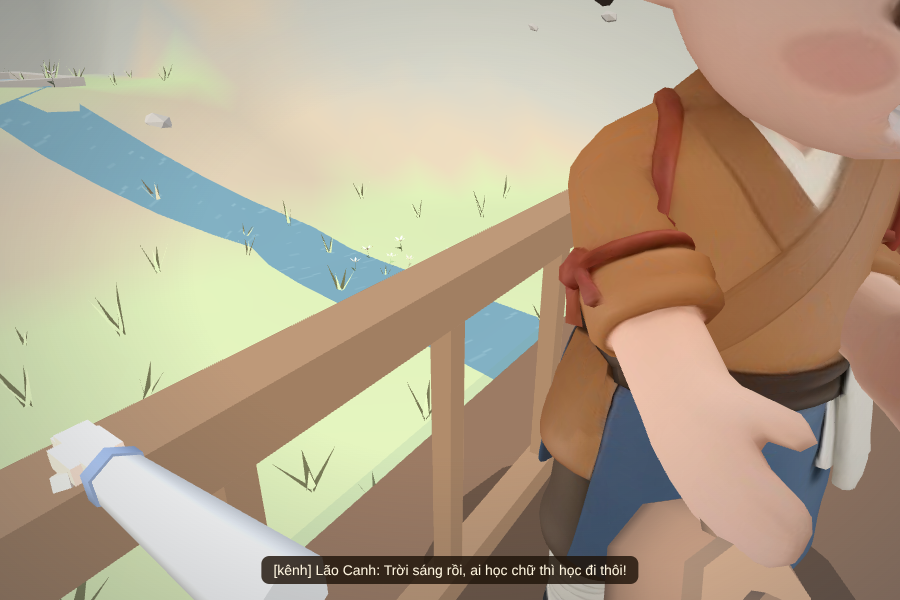
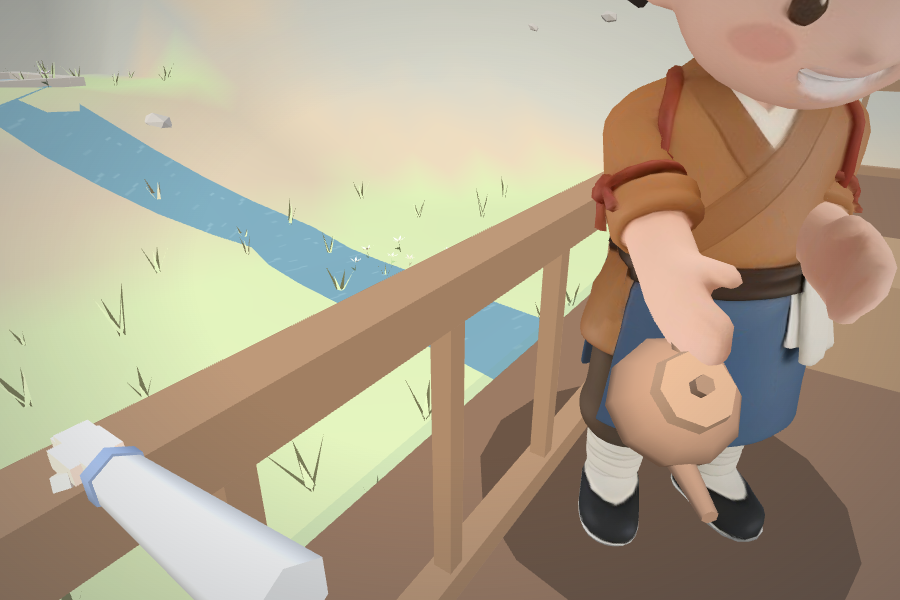
V-20261116-105 NV12: chỗ đứng rót — ghế lan can tính từ mắt, phải < 1,4 m mà trái xa hơn thì đứng trái (R-TRA-1)
Claude-Session: https://claude.ai/code/session_01HXxn4MYC5mAotpjcJM1gun

diff --git a/web/src/traLauPhucVu.test.ts b/web/src/traLauPhucVu.test.ts
@@ -3,6 +3,7 @@ import { describe, expect, it, vi } from 'vitest';
 import { Colliders } from './collision/colliders';
 import { LayeredGround } from './collision/ground';
 import type { XZ } from './collision/gridPath';
+import { RAIL_REACH } from './scene/kien_truc/do_pho';
 import { MIN_FALLBACK, STAND_CLEAR } from './scene/kien_truc/tra_lau_phuc_vu';
 import { traLau, traLauLayout } from './scene/kien_truc/tra_lau';
 import { clearanceAt } from './scene/routeCheck';
@@ -47,6 +48,35 @@ function standFree(f: TeaFloor, seats: readonly { x: number; z: number }[], me: 
 
 const inside = (f: TeaFloor, x: number, z: number): boolean => x >= f.bounds.minX && x <= f.bounds.maxX && z >= f.bounds.minZ && z <= f.bounds.maxZ;
 
+type SeatXZ = { x: number; z: number; rotY: number; hold?: string; rail?: { d: number; h: number } };
+/** gốc đo: chỗ ngồi — ghế lan can: mắt người ngồi nhoài tới lan can (`ngoiMat.ts`: trước chỗ ngồi max(eyeFwd, rail.d − RAIL_REACH)) */
+function origin(s: SeatXZ): { x: number; z: number; rotY: number } {
+  const k = s.hold === 'lan-can' && s.rail ? Math.max(DEFAULT_SCENE.camera.firstPerson.eyeFwd, s.rail.d - RAIL_REACH) : 0;
+  return { x: s.x + Math.sin(s.rotY) * k, z: s.z + Math.cos(s.rotY) * k, rotY: s.rotY };
+}
+/** góc (độ) của điểm `p` nhìn từ `o` so với hướng nhìn của chỗ ngồi `s` — dương = phải */
+function angleFrom(s: SeatXZ, o: { x: number; z: number }, p: XZ): number {
+  const vx = p[0] - o.x;
+  const vz = p[1] - o.z;
+  return Math.atan2(-Math.cos(s.rotY) * vx + Math.sin(s.rotY) * vz, Math.sin(s.rotY) * vx + Math.cos(s.rotY) * vz) * DEG;
+}
+/** dải góc ứng viên (độ, so hướng nhìn): bàn 35–85°, ghế lan can (từ mắt) 60–82° */
+const TABLE_BAND = [35, 85] as const;
+const RAIL_BAND = [60, 82] as const;
+/** phía `side` (1 phải, −1 trái) có điểm đứng được xa hơn `d` (từ d + 0,02 tới 1,6 m mỗi 0,01; góc trong dải mỗi 5° + mép dải)? */
+function farther(f: TeaFloor, seats: readonly SeatXZ[], s: SeatXZ, side: number, band: readonly [number, number], d: number): boolean {
+  const o = origin(s);
+  const as: number[] = [];
+  for (let a = band[0]; a < band[1]; a += 5) as.push(a);
+  as.push(band[1]);
+  for (const a of as)
+    for (let dd = d + 0.02; dd <= 1.6 + 1e-9; dd += 0.01) {
+      const [x, z] = at(o, side * a, dd);
+      if (standFree(f, seats, s, x, z)) return true;
+    }
+  return false;
+}
+
 describe('Mốc phục vụ trà lâu (R-TRA-1)', () => {
   it('R-TRA-1: cả 30 chỗ ngồi đều có chỗ đứng rót, chỗ ngồi gắn mã nhà để tiểu nhị mang tới', () => {
     const { svc, seats } = setup();
@@ -56,7 +86,7 @@ describe('Mốc phục vụ trà lâu (R-TRA-1)', () => {
     expect(svc.seats.filter((s) => s!.floor === 1)).toHaveLength(12);
   });
 
-  it('R-TRA-1: chỗ đứng rót cách chỗ ngồi 1,4–1,6 m (chỗ chật: xa nhất có thể), cùng tầng, ngoài vật cản mịn, phía trước – phải (ghế lan can: bên phải)', () => {
+  it('R-TRA-1: chỗ đứng rót cách chỗ ngồi 1,4–1,6 m (chỗ chật: xa nhất có thể), cùng tầng, ngoài vật cản mịn, phía trước – phải; phải < 1,4 m mà trái xa hơn → trước – trái', () => {
     const { svc, seats } = setup();
     const angles: string[] = [];
     const dists: string[] = [];
@@ -64,43 +94,69 @@ describe('Mốc phục vụ trà lâu (R-TRA-1)', () => {
       const t = svc.seats[i]!;
       const f = svc.floors[t.floor - 1];
       expect(Math.abs(f.y - (s.y < yf - 1 ? plat : yf)) < 1e-9).toBe(true);
-      const d = Math.hypot(t.stand[0] - s.x, t.stand[1] - s.z);
+      const rail = s.hold === 'lan-can';
+      const o = origin(s); // ghế lan can: tính từ mắt
+      const d = Math.hypot(t.stand[0] - o.x, t.stand[1] - o.z);
       expect(d, `chỗ ${i}`).toBeGreaterThanOrEqual(MIN_FALLBACK - 1e-5);
       expect(d, `chỗ ${i}`).toBeLessThanOrEqual(1.6 + 1e-5);
       expect(standFree(f, seats, s, ...t.stand), `chỗ ${i}`).toBe(true);
       dists.push(`${i}:${d.toFixed(2)}`);
+      const band = rail ? RAIL_BAND : TABLE_BAND;
+      const side = Math.sign(t.angle);
       if (d < 1.4 - 1e-5) {
-        // chỗ chật — xa nhất có thể: quét cùng phía, mọi góc trong dải ứng viên (5° một), khoảng từ d + 0,02 tới 1,6 (0,01 m một)
-        // → không có điểm nào hợp lệ (trong sàn, cách bàn ghế ≥ STAND_CLEAR, không đè chỗ ngồi khác)
-        const side = Math.sign(t.angle);
-        const band = s.hold === 'lan-can' ? [40, 70] : [35, 85];
-        for (let a = band[0]; a <= band[1]; a += 5)
-          for (let dd = d + 0.02; dd <= 1.6 + 1e-9; dd += 0.01) {
-            const [x, z] = at(s, side * a, dd);
-            expect(standFree(f, seats, s, x, z), `chỗ ${i} (d ${d.toFixed(2)}): ${side * a}° · ${dd.toFixed(2)} m vẫn đứng được`).toBe(false);
-          }
+        // chỗ chật — xa nhất có thể cùng phía; phía kia (nếu là phải) cũng không xa hơn
+        expect(farther(f, seats, s, side, band, d), `chỗ ${i} (d ${d.toFixed(2)}) phía ${side}`).toBe(false);
+        expect(farther(f, seats, s, -side, band, d), `chỗ ${i} (d ${d.toFixed(2)}): phía ${-side} xa hơn`).toBe(false);
       }
-      // góc thật trong cảnh so với hướng nhìn: dương = bên phải người ngồi
-      const fx = Math.sin(s.rotY);
-      const fz = Math.cos(s.rotY);
+      // đứng trái → phía phải không đạt 1,4 m và không xa bằng chỗ đứng trái
+      if (side < 0) expect(farther(f, seats, s, 1, band, Math.min(d, 1.4) - 0.02), `chỗ ${i}: phía phải đứng được`).toBe(false);
+      // góc thật trong cảnh so với hướng nhìn từ chỗ ngồi: dương = bên phải người ngồi
+      expect(angleFrom(s, s, t.stand)).toBeCloseTo(t.angle, 2);
+      const ang = angleFrom(s, o, t.stand);
+      angles.push(`${i}:${Math.round(ang)}°`);
+      expect(Math.abs(ang), `chỗ ${i}`).toBeLessThan(90); // phía trước (ghế lan can: trước mắt)
+      // quay mặt về chỗ ngồi
       const vx = t.stand[0] - s.x;
       const vz = t.stand[1] - s.z;
-      const right = -Math.cos(s.rotY) * vx + Math.sin(s.rotY) * vz;
-      const ang = Math.atan2(right, fx * vx + fz * vz) * DEG;
-      expect(ang).toBeCloseTo(t.angle, 2);
-      if (s.hold === 'lan-can') expect(ang >= 40 && ang <= 70, `ghế lan can ${i}: ${ang}°`).toBe(true); // nhoài tới lan can → từ mắt là bên phải
-      angles.push(`${i}:${Math.round(ang)}°`);
-      // quay mặt về chỗ ngồi
       expect(Math.abs(Math.atan2(Math.sin(t.face - Math.atan2(-vx, -vz)), Math.cos(t.face - Math.atan2(-vx, -vz))))).toBeLessThan(1e-6);
     });
-    // phía trước (|góc| < 90°, trừ lan can), bên phải trừ chỗ bị chắn (sập: nửa quay lưng ra tường sau)
-    const left = seats.filter((_, i) => svc.seats[i]!.angle < 0);
-    for (const s of seats.filter((q) => q.hold !== 'lan-can')) expect(Math.abs(svc.seats[seats.indexOf(s)]!.angle)).toBeLessThan(90);
-    expect(left.length, angles.join(' ')).toBeLessThanOrEqual(2);
-    // phần lớn chỗ đạt đủ 1,4–1,6 m
-    expect(dists.filter((q) => Number(q.split(':')[1]) >= 1.4 - 1e-5).length, dists.join(' ')).toBeGreaterThanOrEqual(20);
-    console.log(`R-TRA-1 góc chỗ đứng rót: ${angles.join(' ')}`);
-    console.log(`R-TRA-1 khoảng chỗ đứng rót (m): ${dists.join(' ')}`);
+    // trái chỉ ở chỗ phía phải không đủ: 2 chỗ sập quay lưng ra tường + 2 chỗ đầu bàn dài mà bên phải là ghế cạnh
+    const left = seats.flatMap((_, i) => (svc.seats[i]!.angle < 0 ? [i] : []));
+    expect(left, angles.join(' ')).toEqual([13, 15, 21, 24]);
+    // chỉ 2 chỗ giữa bàn dài (ghế cạnh cả hai bên) chưa đủ 1,4 m
+    expect(dists.filter((q) => Number(q.split(':')[1]) >= 1.4 - 1e-5).length, dists.join(' ')).toBeGreaterThanOrEqual(28);
+    console.log(`R-TRA-1 góc chỗ đứng rót (lan can: từ mắt): ${angles.join(' ')}`);
+    console.log(`R-TRA-1 khoảng chỗ đứng rót (m, lan can: từ mắt): ${dists.join(' ')}`);
+  });
+
+  it('R-TRA-1: ghế lan can — cách mắt 1,4–1,6 m, lùi trong sàn chếch phải; quay đầu sang phải ≤ 60° thì cả bề ngang thân tiểu nhị lọt khung, thấy cả chân', () => {
+    const { svc, seats } = setup();
+    const fp = DEFAULT_SCENE.camera.firstPerson;
+    const vHalf = DEFAULT_SCENE.camera.fov / 2 / DEG; // khung 900 × 600: FOV dọc 55°
+    const hHalf = Math.atan(Math.tan(vHalf) * (900 / 600));
+    const rails = seats.filter((s) => s.hold === 'lan-can');
+    expect(rails).toHaveLength(4);
+    for (const s of rails) {
+      const i = seats.indexOf(s);
+      const t = svc.seats[i]!;
+      const o = origin(s);
+      const d = Math.hypot(t.stand[0] - o.x, t.stand[1] - o.z);
+      expect(d, `chỗ ${i}`).toBeGreaterThanOrEqual(1.4 - 1e-5);
+      expect(d, `chỗ ${i}`).toBeLessThanOrEqual(1.6 + 1e-5);
+      // lùi vào trong sàn: không ra trước lan can, gần chỗ ngồi theo hướng nhìn hơn lan can
+      const fwd = (t.stand[0] - s.x) * Math.sin(s.rotY) + (t.stand[1] - s.z) * Math.cos(s.rotY);
+      expect(fwd, `chỗ ${i}`).toBeLessThan(s.rail!.d - STAND_CLEAR + 1e-6);
+      const ang = angleFrom(s, o, t.stand) / DEG; // rad, dương = phải
+      expect(ang, `chỗ ${i}`).toBeGreaterThan(0);
+      // quay đầu tối đa yawLimit sang phải: cả bề ngang thân (±0,45 m — cả tay) trong khung
+      const yaw = Math.min(fp.yawLimit / DEG, ang);
+      const half = Math.atan(0.45 / d);
+      expect(ang + half, `chỗ ${i}: mép thân ${((ang + half) * DEG).toFixed(0)}° > ${((yaw + hHalf) * DEG).toFixed(0)}°`).toBeLessThanOrEqual(yaw + hHalf);
+      expect(ang - half).toBeGreaterThanOrEqual(yaw - hHalf);
+      // chân trong khung khi nhìn cúi như chỗ ngồi (pitch.seat)
+      const feet = Math.atan(fp.eyeY / d);
+      expect(feet, `chỗ ${i}`).toBeLessThanOrEqual(-fp.pitch.seat / DEG + vHalf);
+    }
   });
 
   it('R-TRA-1: cửa, mốc thang nằm trên nền đi được; cửa ở gian phía hồi phải (nam), đầu cầu nối trên sàn tầng 2', () => {

diff --git a/web/src/scene/kien_truc/tra_lau_phuc_vu.ts b/web/src/scene/kien_truc/tra_lau_phuc_vu.ts
@@ -2,11 +2,12 @@
  * Mốc phục vụ của trà lâu cho tiểu nhị mang trà (R-TRA-1), toạ độ nhà (mặt trước nhìn +z) — chỉ là số xuất ra, không dựng
  * hình. `tra_lau.ts` gom "vật cản mịn" (mặt bàn + đôn tròn thay hộp bao, sập, bàn nhỏ, cột, quầy, tường) từng tầng lúc dựng,
  * rồi gọi `teaServiceLocal`: đoạn cố định sau quầy, cửa, mốc thang, và mỗi chỗ ngồi một **chỗ đứng rót** (QĐ3 2026-11-16:
- * chếch trước – phải, cách 1,4–1,6 m — chỗ chật: xa nhất có thể; ghế lan can: bên phải). `scene/teaPath.ts` đổi sang toạ độ cảnh + dựng đường.
+ * chếch trước – phải, cách 1,4–1,6 m — chỗ chật: xa nhất có thể; phải < 1,4 m mà trái xa hơn → trước – trái; ghế lan can: tính từ
+ * mắt, bên phải). `scene/teaPath.ts` đổi sang toạ độ cảnh + dựng đường.
  */
 import type { Box, Circle } from '../../collision/colliders';
 import { clearanceAt } from '../routeCheck';
-import type { LocalSeat } from './do_pho';
+import { RAIL_REACH, type LocalSeat } from './do_pho';
 
 export type XZ = readonly [number, number];
 
@@ -46,18 +47,20 @@ export const STAND_CLEAR = 0.2;
 /** Chỗ đứng rót không đè lên chỗ ngồi khác (tâm cách tâm, m). */
 const OTHER_SEAT = 0.5;
 const DEG = Math.PI / 180;
-/**
- * Góc thử (độ, so hướng nhìn, dương = phải): gần 45° trước (QĐ3). Bàn bày chật → lấy góc gần nhất còn trống. Ghế lan can: người
- * ngồi nhìn từ mắt **nhoài người** ~0,8 m tới lan can (`ngoiMat` RAIL_REACH) → đứng chếch trước 45–60° so với chỗ ngồi thì từ
- * mắt là ngay bên phải (~75–90°), quay đầu sang thấy; đứng đúng 90° so với chỗ ngồi thì đã ở sau lưng mắt.
- */
+/** Góc thử (độ, so hướng nhìn, dương = phải): gần 45° trước (QĐ3). Bàn bày chật → lấy góc gần nhất còn trống. */
 const TABLE_ANGLES = [45, 50, 40, 55, 35, 60, 65, 70, 75, 80, 85];
-const RAIL_ANGLES = [45, 50, 55, 60, 40, 65, 70];
-/** Khoảng đứng rót (m, tâm chỗ ngồi → tâm tiểu nhị) — duyệt ảnh 2026-11-16: 0,8–1,2 m thì đầu chibi chiếm nửa màn từ mắt. */
-const DISTS = [1.5, 1.45, 1.55, 1.4, 1.6];
-/** Ghế lan can: người ngồi nhoài ~0,8 m tới lan can → lấy xa nhất trước (45° · 1,6 m: cách **mắt** ~1,2 m; 1,4 m: ~1,0 m). Góc 60° cách
- *  mắt xa hơn nhưng ở ngay sau vai — quay đầu hết cỡ (60°) vẫn chỉ thấy mép áo (thử Canvas 3D NV11). */
+/**
+ * Ghế lan can (duyệt ảnh lần 2): người ngồi nhoài tới lan can → góc + khoảng tính **từ mắt** (`railEye`). Lan can chỉ cách mắt
+ * `RAIL_REACH` nên phía trước mắt không có chỗ: tiểu nhị lùi vào trong sàn, ngang bên phải mắt. Góc ≤ 82°: quay đầu 60° (giới
+ * hạn nhìn quanh), khung 900 × 600 (FOV 55° → ngang ±38°) thấy trọn bề ngang thân (cả tay, ±0,45 m ở 1,6 m: ±16°). Khoảng
+ * lấy xa trước: chibi cao 2,1 m, mắt 1,35 m — càng xa càng ít bị cắt đầu.
+ */
+const RAIL_ANGLES = [60, 65, 70, 75, 80, 82];
 const RAIL_DISTS = [1.6, 1.55, 1.5, 1.45, 1.4];
+/** Khoảng đứng rót (m, tâm chỗ ngồi → tâm tiểu nhị) — duyệt ảnh 2026-11-16: 0,8–1,2 m thì đầu chibi chiếm nửa màn. */
+const DISTS = [1.5, 1.45, 1.55, 1.4, 1.6];
+/** Đủ xa (m): phía phải gần hơn mà phía trái xa hơn → đứng trái (duyệt ảnh lần 2). */
+export const NEAR_OK = 1.4;
 /** Chỗ chật không đủ 1,4 m: lùi dần từ đây (0,01 m một) xuống `MIN_FALLBACK`, lấy khoảng xa nhất còn đứng được. */
 const FALLBACK_FROM = 1.39;
 const FALLBACK_STEP = 0.01;
@@ -71,10 +74,20 @@ const inBounds = (f: ServiceFloor, x: number, z: number, m: number): boolean =>
   x >= f.bounds.minX + m && x <= f.bounds.maxX - m && z >= f.bounds.minZ + m && z <= f.bounds.maxZ - m;
 
 /**
- * Chỗ đứng rót cho chỗ ngồi `s` (R-TRA-1): thử các góc gần 45° phía trước – phải (ghế lan can: 45–60°, từ mắt là bên phải),
- * khoảng 1,4–1,6 m, lấy chỗ đầu tiên cách vật cản ≥ `STAND_CLEAR`, trong sàn, không đè chỗ ngồi khác. Không có (bàn bày
- * chật) → khoảng **xa nhất** dưới 1,4 m còn đứng được (góc nào cũng được, ưu tiên gần 45°), không gần hơn `MIN_FALLBACK`.
- * Phía phải bị chắn hết (sập quay lưng ra tường) → thử phía trái như thế. Không có → `null`.
+ * Gốc đo khoảng / góc đứng rót: chỗ ngồi — ghế lan can: **mắt** người ngồi đang nhoài tới lan can (`ngoiMat.ts`: mắt trước
+ * chỗ ngồi `max(eyeFwd, rail.d − RAIL_REACH)`; lan can trà lâu cách 1,5 m nên eyeFwd 0,08 không đổi gì).
+ */
+export function railEye(s: LocalSeat): XZ {
+  const k = s.hold === 'lan-can' && s.rail ? Math.max(0, s.rail.d - RAIL_REACH) : 0;
+  return [s.x + Math.sin(s.rotY) * k, s.z + Math.cos(s.rotY) * k];
+}
+
+/**
+ * Chỗ đứng rót cho chỗ ngồi `s` (R-TRA-1): mỗi phía (phải trước), thử các góc gần 45° phía trước (ghế lan can: 60–82° tính
+ * từ mắt), khoảng 1,4–1,6 m, lấy chỗ đầu tiên cách vật cản ≥ `STAND_CLEAR`, trong sàn, không đè chỗ ngồi khác; không có (bàn
+ * bày chật) → khoảng **xa nhất** dưới 1,4 m còn đứng được (góc nào cũng được, ưu tiên gần 45°), không gần hơn `MIN_FALLBACK`.
+ * Phía phải đạt 1,4 m → phải. Không thì phía trái xa hơn (kể cả phải bị chắn hết — sập quay lưng ra tường) → trái. Không có → `null`.
+ * `angle` trả về: góc thật so với hướng nhìn **từ chỗ ngồi**.
  */
 export function standFor(s: LocalSeat, floor: ServiceFloor, others: readonly LocalSeat[]): { stand: XZ; angle: number } | null {
   const fx = Math.sin(s.rotY);
@@ -82,25 +95,36 @@ export function standFor(s: LocalSeat, floor: ServiceFloor, others: readonly Loc
   const rx = -Math.cos(s.rotY); // bên phải người ngồi (nhìn +z thì phải là −x)
   const rz = Math.sin(s.rotY);
   const rail = s.hold === 'lan-can';
+  const [ox, oz] = railEye(s);
   const angles = rail ? RAIL_ANGLES : TABLE_ANGLES;
   const dists = rail ? RAIL_DISTS : DISTS;
   const obs = { boxes: floor.boxes, circles: floor.circles };
-  const tryAt = (side: number, a: number, d: number): { stand: XZ; angle: number } | null => {
+  const tryAt = (side: number, a: number, d: number): XZ | null => {
     const ang = side * a * DEG;
-    const x = s.x + (fx * Math.cos(ang) + rx * Math.sin(ang)) * d;
-    const z = s.z + (fz * Math.cos(ang) + rz * Math.sin(ang)) * d;
+    const x = ox + (fx * Math.cos(ang) + rx * Math.sin(ang)) * d;
+    const z = oz + (fz * Math.cos(ang) + rz * Math.sin(ang)) * d;
     if (!inBounds(floor, x, z, STAND_CLEAR) || clearanceAt(obs, x, z) < STAND_CLEAR) return null;
     if (others.some((o) => o !== s && Math.hypot(o.x - x, o.z - z) < OTHER_SEAT)) return null;
-    return { stand: [x, z], angle: side * a };
+    return [x, z];
   };
-  for (const side of [1, -1]) {
-    for (const a of angles) for (const d of dists) { const p = tryAt(side, a, d); if (p) return p; }
+  const search = (side: number): { p: XZ; d: number } | null => {
+    for (const a of angles) for (const d of dists) { const p = tryAt(side, a, d); if (p) return { p, d }; }
     for (let k = 0; FALLBACK_FROM - k * FALLBACK_STEP >= MIN_FALLBACK - 1e-9; k++) {
       const d = FALLBACK_FROM - k * FALLBACK_STEP;
-      for (const a of angles) { const p = tryAt(side, a, d); if (p) return p; }
+      for (const a of angles) { const p = tryAt(side, a, d); if (p) return { p, d }; }
     }
+    return null;
+  };
+  const right = search(1);
+  let best = right;
+  if (!right || right.d < NEAR_OK - 1e-9) {
+    const left = search(-1);
+    if (left && (!right || left.d > right.d + 1e-9)) best = left;
   }
-  return null;
+  if (!best) return null;
+  const vx = best.p[0] - s.x;
+  const vz = best.p[1] - s.z;
+  return { stand: best.p, angle: Math.atan2(rx * vx + rz * vz, fx * vx + fz * vz) / DEG };
 }
 
 /** Gắn chỗ đứng rót cho mọi chỗ ngồi; chỗ nào không tìm được → bỏ khỏi phục vụ (tiểu nhị không mang — cầm chén ngay). */

diff --git a/web/src/ngoiMat.ts b/web/src/ngoiMat.ts
@@ -24,6 +24,7 @@ import {
 } from './input/eyeCamera';
 import type { Character } from './player/character';
 import { CuonSach } from './scene/cuonSach';
+import { RAIL_REACH } from './scene/kien_truc/do_pho';
 import { CUON_GIAY_H, CUON_GIAY_W, fitScroll } from './scene/cuonSachNhip';
 import { LAYER_MAT, LAYER_THAN, setLayer, viewLayers } from './scene/layers';
 import { isSoft, type LookSpec } from './scene/look';
@@ -51,9 +52,6 @@ const TABLE_EDGE = 0.86; // bàn cờ 13 × 13 rộng 1,2 m: hàng gần nhất 
 const TABLE_SPREAD = 0.3;
 const CARD_NEAR = 0.36; // thẻ 0,5 m: mép gần cách tâm 0,25 — ngón chỉ chạm mép thẻ, không che chữ
 const CARD_SPREAD = 0.2;
-/** Ghế lan can: tay với tới thanh cách mắt chừng này (m); lan can xa hơn → chỉ camera + tay nhoài tới (dáng ngồi ngoài
- *  cảnh không đổi) */
-const RAIL_REACH = 0.58;
 
 export class NgoiMat {
   private place: SitPlace | null = null;

diff --git a/web/src/scene/kien_truc/do_pho.ts b/web/src/scene/kien_truc/do_pho.ts
@@ -146,6 +146,10 @@ export interface LocalSeat {
   rail?: { d: number; h: number };
 }
 
+/** Ghế lan can: tay với tới thanh cách mắt chừng này (m); lan can xa hơn → chỉ camera + tay nhoài tới (dáng ngồi ngoài
+ *  cảnh không đổi) — mắt khi ngồi cách chỗ ngồi `max(eyeFwd, rail.d − RAIL_REACH)` theo hướng nhìn (`ngoiMat.ts`). */
+export const RAIL_REACH = 0.58;
+
 /** Cao mặt sập trà (m) — chỗ ngồi trên sập cao hơn sàn chừng này (R-VA-4: 0,45). */
 export const TEA_BED_H = 0.45;
 const BED_W = k(2);

diff --git a/docs/tasks/2026-11-16-tieu-nhi-mang-tra.md b/docs/tasks/2026-11-16-tieu-nhi-mang-tra.md
@@ -237,5 +237,25 @@ dart tool/rule_trace.dart · dart tool/guard.dart
 ## Duyệt ảnh lần 2 (người dùng)
 - Ghế lan can: khoảng 1,4–1,6 m tính **từ mắt** người ngồi (đang nhoài tới lan can), tiểu nhị lùi vào trong sàn chếch phải.
 - 4 chỗ giữa bàn dài (phải chỉ được 0,88 m): phía phải không đủ mà phía trái xa hơn → đứng trước – trái. R-TRA-1 đã sửa + đồng bộ.
-- [ ] 12. Sửa `tra_lau_phuc_vu.ts` + test theo hai điểm trên · chụp lại ảnh lan can + bàn dài.
+- [x] 12. Sửa `tra_lau_phuc_vu.ts` + test theo hai điểm trên · chụp lại ảnh lan can + bàn dài.
+
+## Kết quả NV12 (2026-11-18)
+- `standFor`: mỗi phía tìm như NV11 (1,4–1,6 m theo góc gần 45°, chật → xa nhất tới 0,8 m); phía phải đạt 1,4 m → phải, không
+  thì phía trái **xa hơn** → trái. Ghế lan can: gốc đo là **mắt** (`railEye`: trước chỗ ngồi `rail.d − RAIL_REACH` = 0,945 m;
+  `RAIL_REACH` chuyển từ `ngoiMat.ts` sang `do_pho.ts` dùng chung), góc từ mắt 60–82°, khoảng lấy xa trước (1,6 m) — lan can chỉ
+  cách mắt 0,58 m nên tiểu nhị lùi vào trong sàn, gần ngang vai phải mắt.
+- **Khoảng / phía thật**: đôn tầng 1 (0–11) 1,40 m · 60° phải · sập (12–15) 1,50 m · 45° (13, 15 trái) · ghế lan can (16–19)
+  **1,60 m từ mắt** · 80° (16, 17) / 82° (18, 19 — lan can hồi trái có tường dày hơn) phải · bàn dài đầu (20, 25) 1,50 m · 45°
+  phải, (21, 24) **1,50 m · −45° trái** (trước: 0,88 m phải) · bàn dài giữa (22, 23) **vẫn 0,88 m · 75° phải** (ghế cạnh cả hai
+  phía — trái cũng không xa hơn) · bàn đôi (26–29) 1,50 m · 45°. 28/30 chỗ đạt 1,4–1,6 m. Đường: tầng 1 9,3–13,5 m, tầng 2 38,8–52,6 m.
+- Test `traLauPhucVu.test.ts`: khoảng (lan can: từ mắt), xa nhất cùng phía + phía kia không xa hơn, chỗ trái thì phía phải không
+  đứng được ≥ 1,4 m / xa bằng, trái đúng {13, 15, 21, 24}; ghế lan can: 1,4–1,6 m từ mắt, sau lan can, quay đầu ≤ 60° thì cả bề
+  ngang thân (±0,45 m) lọt khung 900 × 600, chân trong khung lúc cúi `pitch.seat`.
+- **Giới hạn**: tiểu nhị cao 2,1 m (chibi), mắt 1,35 m — ở 1,4–1,6 m khung FOV dọc 55° không chứa trọn từ chân tới đỉnh đầu
+  (cần ≈ 2,1 m, ngẩng hết `pitchUp`); ảnh lan can thấy từ chân tới mặt, đỉnh đầu bị cắt. Màn dọc (ngang 40°): quay 60° thấy tới
+  80°, tiểu nhị lan can ở 80–82° chỉ thấy nửa thân.
+- **Đo Canvas 3D** (900 × 600, SwiftShader, 10 giờ): ghế lan can chỗ 17 quay đầu 60° lúc rót **42 draw call · 82,1k tam giác**;
+  bàn dài chỗ 21 nhìn trái 30° lúc rót **44 · 82,3k**.
+- Ảnh: `docs/tasks/2026-11-16-tieu-nhi-2-lan-can-dang-rot.png` (`?dang=tieu-nhi&cho=17&t=24.8&dung&chup&gio=10&nhin=60`, ghi đè) ·
+  `-4-ban-dai-dang-rot.png` (`cho=21&t=21&dung&chup&gio=10&nhin=-30`).
 
